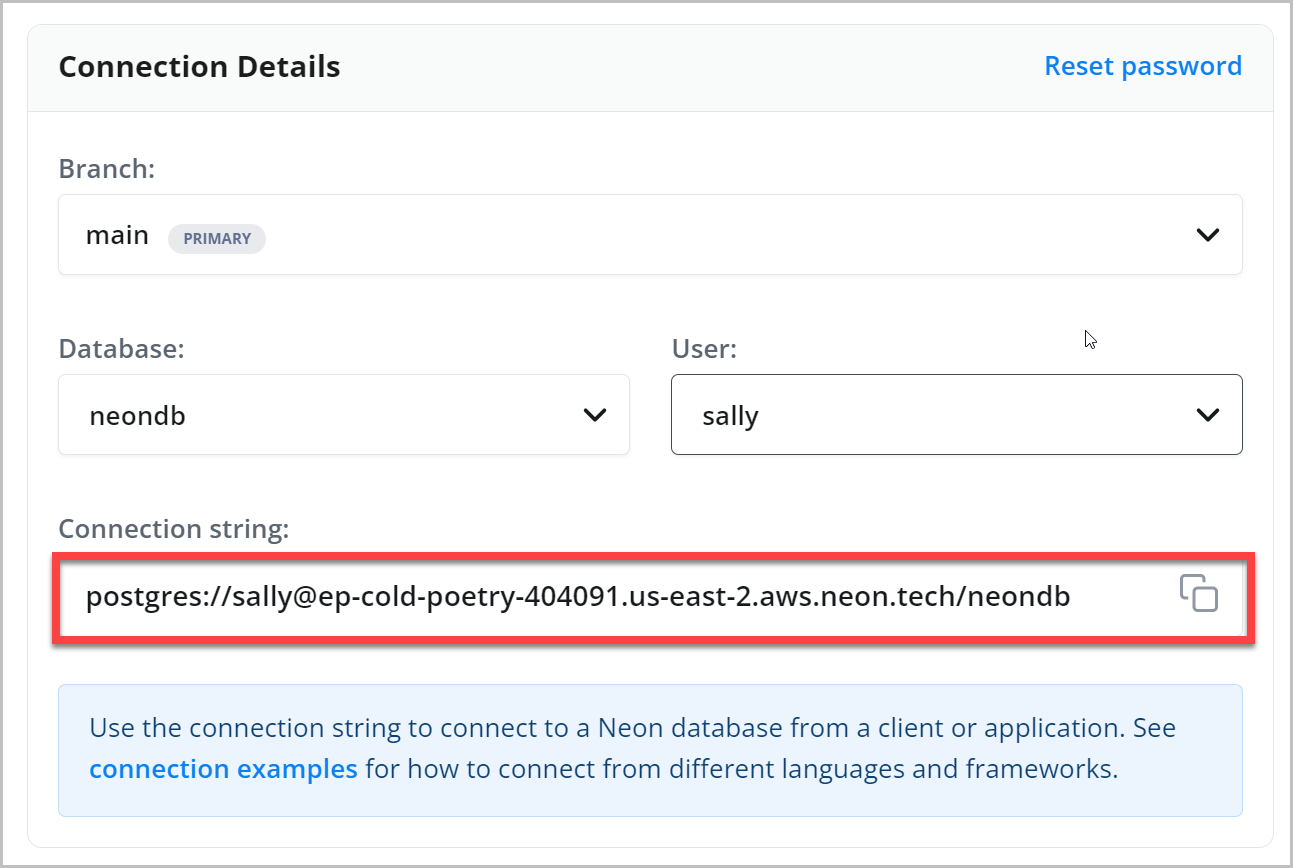
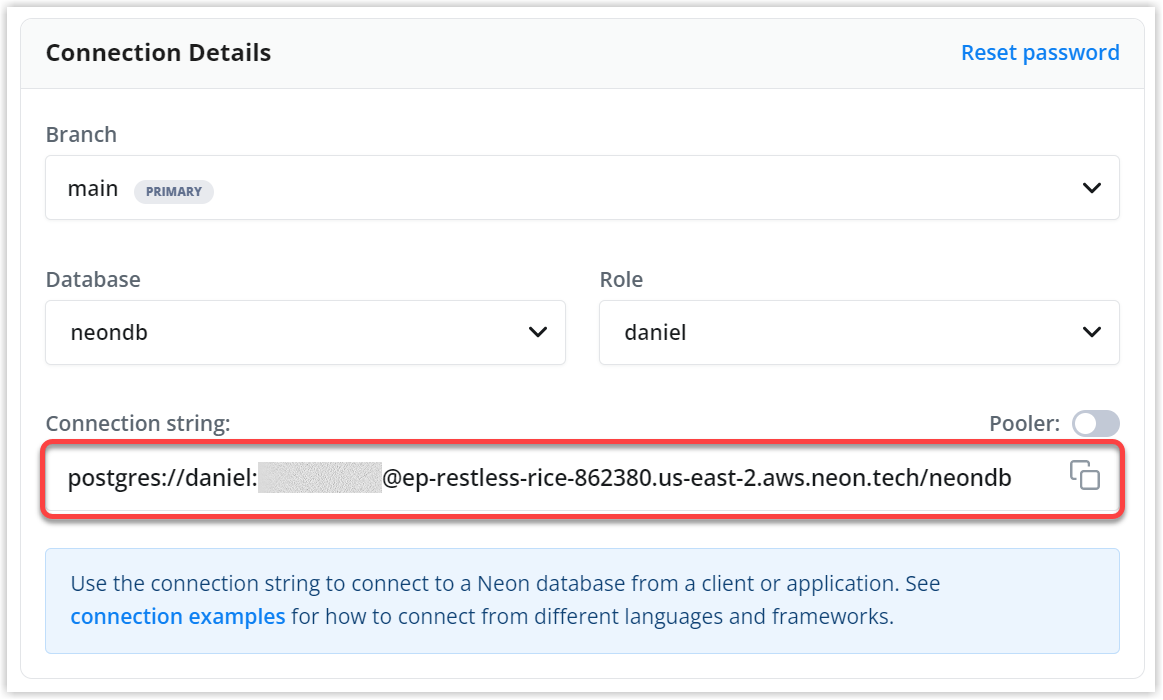
revisions

diff --git a/content/docs/manage/branches.md b/content/docs/manage/branches.md
@@ -8,28 +8,28 @@ redirectFrom:
 
 Data resides in a branch. Each Neon project is created with a [primary branch](#primary-branch) called `main`. You can create child branches from `main` or from previously created branches. A branch can contain multiple databases and roles. Tier limits define the number of branches you can create in a project and the amount of data you can store in a branch.
 
-A child branch is a copy-on-write clone the data in the parent branch. You can modify the data in a branch without affecting the data in the parent branch.
+A child branch is a copy-on-write clone of the parent branch. You can modify the data in a branch without affecting the data in the parent branch.
 For more information about branches and how you can use them in your development workflows, see [Branching](/docs/introduction/branching).
 
 You can create and manage branches using the Neon Console or [Neon API](https://api-docs.neon.tech/reference/getting-started-with-neon-api). This topic covers both methods.
 
 <Admonition type="important">
-When working with branches, it is important to remove old and unused branches. Branches hold a lock on the data they contain, preventing disk space from being reallocated, which can lead to excessive disk space consumption. The Neon Free Tier limits the point-in-time restore window for a project to 7 days. To keep disk space usage to a minimum, it is recommended that you avoid allowing branches to age beyond the 7-day point-in-time restore window.
+When working with branches, it is important to remove old and unused branches. Branches hold a lock on the data they contain, preventing disk space from being reallocated. Neon retains a 7-day data history, by default. To keep data storage to a minimum, remove branches before they age out of this 7-day window.
 </Admonition>
 
 ## Primary branch
 
-Each Neon project is created with a primary branch called `main`. You can designate any branch as the primary branch for your project or rename the primary branch, but you cannot delete a primary branch. The advantage of the primary branch is that its compute endpoint remains accessible if you exceed your project's limits, ensuring uninterrupted access to data that resides on the primary branch.
+Each Neon project has a primary branch called `main`, by default. In the Neon Console, your primary branch is identified by a `PRIMARY` tag. You can designate any branch as the primary branch for your project or rename the primary branch, but you cannot delete a primary branch. The advantage of the primary branch is that its compute endpoint remains accessible if you exceed your project's limits, ensuring uninterrupted access to data that resides on the primary branch.
 
-- For [Free Tier](/docs/introduction/technical-preview-free-tier) users, the compute endpoint associated with the primary branch remains accessible if the Free Tier _compute active time_ limit of 100 hours per month is exceeded.
-- For [paid plan](/docs/introduction/billing#neon-plans) users, the compute endpoint associated with the primary branch is exempt from the limit on simultaneously active computes, which ensures that it is always available. Neon has a safety limit of 20 simultaneously active computes to protect your account from misuse.
+- For [Free Tier](/docs/introduction/technical-preview-free-tier) users, the compute endpoint associated with the primary branch remains accessible if you exceed the Free Tier _compute active time_ limit of 100 hours per month.
+- For [Pro plan](/docs/introduction/billing#neon-plans) users, the compute endpoint associated with the primary branch is exempt from the limit on simultaneously active computes, ensuring that it is always available. Neon has a safety limit of 20 simultaneously active computes to protect your account from misuse.
 
 ## Non-primary branch
 
-Any branch not designated as the primary branch is considered a non-primary branch. You can rename or delete non-primary branches. You can also remove a compute endpoint from a non-primary branch.
+Any branch not designated as the primary branch is considered a non-primary branch. You can rename or delete non-primary branches.
 
-- For [Free Tier](/docs/introduction/technical-preview-free-tier) users, compute endpoints associated with non-primary branches are suspended if the Free Tier  _compute active time_ limit of 100 hours per month is exceeded.
-- For [paid plan](/docs/introduction/billing#neon-plans) users, safety limits prevent more than 20 simultaneously active compute endpoints. Beyond that limit, a compute endpoint associated with a non-primary branch remains in a suspended state.
+- For [Free Tier](/docs/introduction/technical-preview-free-tier) users, compute endpoints associated with non-primary branches are suspended if you exceed the Free Tier  _compute active time_ limit of 100 hours per month.
+- For [Pro plan](/docs/introduction/billing#neon-plans) users, safety limits prevent more than 20 simultaneously active compute endpoints. Beyond that limit, a compute endpoint associated with a non-primary branch remains suspended.
 
 ## Create a branch
 
@@ -40,7 +40,7 @@ To create a branch:
 3. Click **New Branch** to open the branch creation dialog.
 ![Create branch dialog](/docs/manage/create_branch.png)
 4. Enter a name for the branch.
-5. Select a parent branch. You can branch from your Neon project's [primary branch](/docs/reference/glossary/#primary-branch) (`main`) or a previously created branch.
+5. Select a parent branch. You can branch from your Neon project's [primary branch](#primary-branch) or a [non-primary branch](#non-primary-branch).
 6. Select one of the following branching options:
     - **Head**: Creates a branch with data up to the current point in time (the default).
     - **Time**: Creates a branch with data up to the specified date and time.
@@ -83,7 +83,7 @@ To set a branch as the primary branch:
 
 ## Connect to a branch
 
-Connecting to a database in a branch requires connecting via a compute endpoint tht is associated with a branch. The following steps describe how to connect using `psql` and a connection string obtained from the Neon Console.
+Connecting to a database in a branch requires connecting via a compute endpoint associated with the branch. The following steps describe how to connect using `psql` and a connection string obtained from the Neon Console.
 
 <Admonition type="tip">
 You can also query the databases in a branch from the Neon SQL Editor. For instructions, see [Query with Neon's SQL Editor](/docs/get-started-with-neon/query-with-neon-sql-editor).
@@ -93,10 +93,10 @@ You can also query the databases in a branch from the Neon SQL Editor. For instr
 2. On the project **Dashboard**, under **Connection Details**, select the branch, the database, and the role you want to connect with.
 ![Connection details widget](/docs/manage/connection_details.png)
 3. Copy the connection string. A connection string includes your role name, the compute endpoint hostname, and database name.
-5. Add your password to the connection string as shown below, and connect with `psql`. You can connect using the same role and password that you use to connect to the parent branch.
+5. Connect with `psql` as shown below.
 
   ```bash
-  psql postgres://sally:<password>@ep-cold-poetry-404091.us-east-2.aws.neon.tech/neondb
+  psql postgres://daniel:<password>@ep-restless-rice.us-east-2.aws.neon.tech/neondb
   ```
 
 <Admonition type="tip">
@@ -119,9 +119,9 @@ To delete a branch:
 
 ## Check the data size
 
-Tier limits define the amount of data you can store in a branch. Neon's free tier permits 3GB per branch. When creating a new branch, the child branch includes the data from the parent branch. For example, if you have a branch with 1GB of data, the child branch is created with the same 1GB of data.
+Tier limits define the amount of data you can store in a branch. Neon's [Free Tier](/docs/introduction/technical-preview-free-tier) permits 3 GB per branch. When creating a new branch, the child branch includes the data from the parent branch. For example, if you have a branch with 1 GB of data, the child branch is created with the same 1 GB of data.
 
-You can check the data size for a branch by viewing the `Database size` value on the **Branches** page (see [View branchings](#view-branches)). Alternatively, you can run the following query from the Neon SQL Editor:
+You can check the data size for a branch by viewing the `Database size` value on the branch details page (see [View branchings](#view-branches)). Alternatively, you can run the following query from the Neon SQL Editor:
 
 ```sql
 SELECT pg_size_pretty(sum(pg_database_size(datname)))
@@ -137,7 +137,7 @@ Neon stores data in its own internal format.
 Branch actions performed in the Neon Console can also be performed using the Neon API. The following examples demonstrate how to create, view, and delete branches using the Neon API. For other branch-related API methods, refer to the [Neon API reference](https://api-docs.neon.tech/reference/getting-started-with-neon-api).
 
 <Admonition type="note">
-The API examples that follow may not show all of the user-configurable request body attributes that are available to you. To view all of the attributes for a particular method, refer to method's request body schema in the [Neon API reference](https://api-docs.neon.tech/reference/getting-started-with-neon-api).
+The API examples that follow may not show all of the user-configurable request body attributes that are available to you. To view all of the attributes for a particular method, refer to the method's request body schema in the [Neon API reference](https://api-docs.neon.tech/reference/getting-started-with-neon-api).
 </Admonition>
 
 The `jq` option specified in each example is an optional third-party tool that formats the `JSON` response, making it easier to read. For information about this utility, see [jq](https://stedolan.github.io/jq/).
